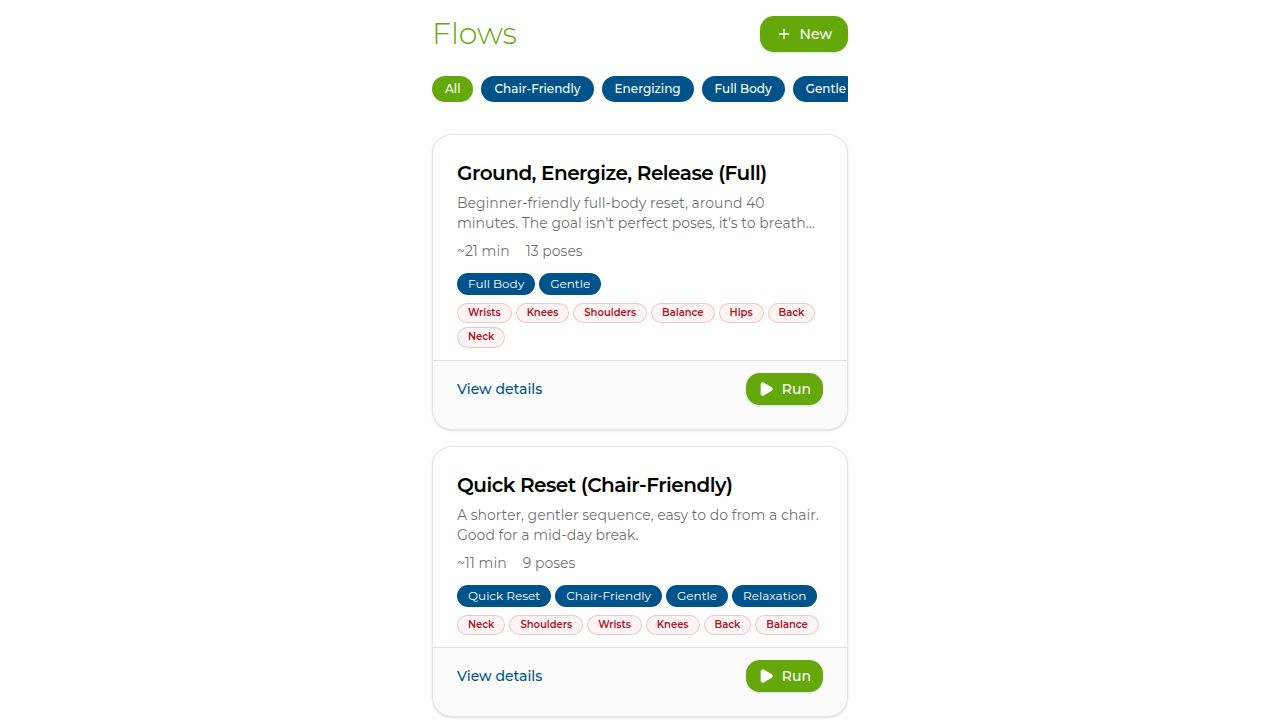
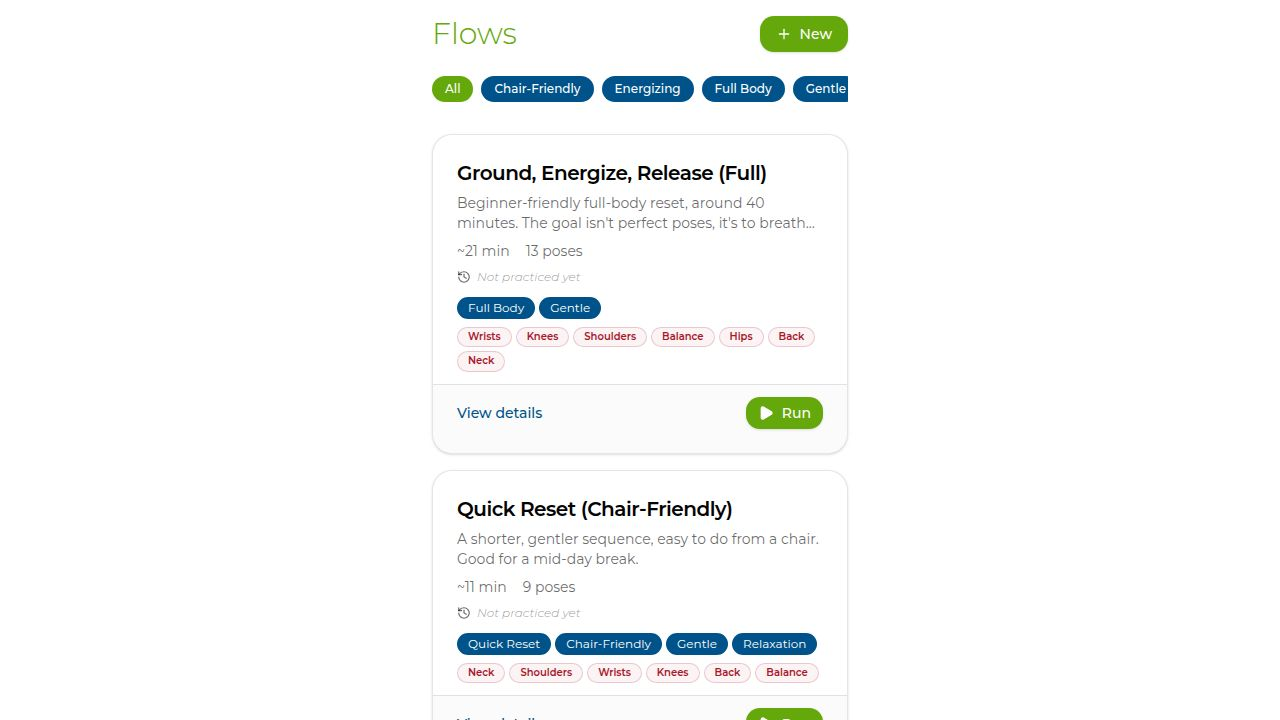
Allow users to edit existing poses and their details
Add functionality to update existing poses via a new API endpoint and corresponding UI elements in the builder.

Replit-Commit-Author: Agent
Replit-Commit-Session-Id: ed87b029-cb7b-4e24-b253-91e2f787ba12
Replit-Commit-Checkpoint-Type: full_checkpoint
Replit-Commit-Event-Id: f6902fa1-2135-40dc-87d6-ab75f8274b44
Replit-Commit-Screenshot-Url: https://storage.googleapis.com/screenshot-production-us-central1/4d9189ef-664a-4452-871d-b20f7011d44b/ed87b029-cb7b-4e24-b253-91e2f787ba12/3hUZU86
Replit-Helium-Checkpoint-Created: true

Changed region(s): [[0.3438, 0.6417, 0.6562, 1.0], [0.3438, 0.3667, 0.6562, 0.6111]]

diff --git a/artifacts/flow-planner/src/pages/builder.tsx b/artifacts/flow-planner/src/pages/builder.tsx
@@ -10,7 +10,8 @@ import {
   useCreateRoutine,
   useUpdateRoutine,
   useCreateTag,
-  useCreatePose
+  useCreatePose,
+  useUpdatePose
 } from "@workspace/api-client-react";
 import type { PoseInputCategory, PoseInputDurationType, PoseInputCautionsItem } from "@workspace/api-client-react";
 import { useQueryClient } from "@tanstack/react-query";
@@ -58,6 +59,7 @@ export default function Builder() {
   const updateRoutine = useUpdateRoutine();
   const createTag = useCreateTag();
   const createPose = useCreatePose();
+  const updatePose = useUpdatePose();
 
   const [title, setTitle] = useState("");
   const [description, setDescription] = useState("");
@@ -82,6 +84,7 @@ export default function Builder() {
   const [activeSection, setActiveSection] = useState<"centering"|"flow"|"closing" | null>(null);
   
   const [isPoseDialogOpen, setIsPoseDialogOpen] = useState(false);
+  const [editingPoseId, setEditingPoseId] = useState<number | null>(null);
   const [newPose, setNewPose] = useState({
     name: "",
     category: "Centering" as PoseInputCategory,
@@ -161,7 +164,45 @@ export default function Builder() {
     );
   };
 
-  const handleCreatePose = () => {
+  const resetPoseForm = () => {
+    setEditingPoseId(null);
+    setNewPose({
+      name: "",
+      category: "Centering" as PoseInputCategory,
+      durationType: "time" as PoseInputDurationType,
+      defaultDurationSeconds: 30,
+      defaultBreaths: 5,
+      perSide: false,
+      cue: "",
+      cautions: [],
+      modification: "",
+      chairOption: ""
+    });
+  };
+
+  const openCreatePose = () => {
+    resetPoseForm();
+    setIsPoseDialogOpen(true);
+  };
+
+  const openEditPose = (pose: any) => {
+    setEditingPoseId(pose.id);
+    setNewPose({
+      name: pose.name,
+      category: pose.category,
+      durationType: pose.durationType,
+      defaultDurationSeconds: pose.defaultDurationSeconds,
+      defaultBreaths: pose.defaultBreaths ?? 5,
+      perSide: pose.perSide,
+      cue: pose.cue ?? "",
+      cautions: [...pose.cautions],
+      modification: pose.modification ?? "",
+      chairOption: pose.chairOption ?? ""
+    });
+    setIsPoseDialogOpen(true);
+  };
+
+  const handleSavePose = () => {
     if (!newPose.name.trim()) return alert("Name is required");
     
     const payload = {
@@ -169,24 +210,17 @@ export default function Builder() {
       defaultBreaths: newPose.durationType === 'breaths' ? newPose.defaultBreaths : null
     };
 
-    createPose.mutate({ data: payload }, {
-      onSuccess: () => {
-        queryClient.invalidateQueries({ queryKey: getListPosesQueryKey() });
-        setIsPoseDialogOpen(false);
-        setNewPose({
-          name: "",
-          category: "Centering" as PoseInputCategory,
-          durationType: "time" as PoseInputDurationType,
-          defaultDurationSeconds: 30,
-          defaultBreaths: 5,
-          perSide: false,
-          cue: "",
-          cautions: [],
-          modification: "",
-          chairOption: ""
-        });
-      }
-    });
+    const onSuccess = () => {
+      queryClient.invalidateQueries({ queryKey: getListPosesQueryKey() });
+      setIsPoseDialogOpen(false);
+      resetPoseForm();
+    };
+
+    if (editingPoseId != null) {
+      updatePose.mutate({ id: editingPoseId, data: payload }, { onSuccess });
+    } else {
+      createPose.mutate({ data: payload }, { onSuccess });
+    }
   };
 
   const addPose = (pose: any) => {
@@ -297,7 +331,7 @@ export default function Builder() {
               <SheetHeader className="px-4 pb-2 text-left shrink-0">
                 <div className="flex items-center justify-between">
                   <SheetTitle>Pose Bank</SheetTitle>
-                  <Button variant="outline" size="sm" onClick={() => setIsPoseDialogOpen(true)}>
+                  <Button variant="outline" size="sm" onClick={openCreatePose}>
                     Create Pose
                   </Button>
                 </div>
@@ -359,9 +393,17 @@ export default function Builder() {
                       className="p-3 border rounded-lg hover:border-primary cursor-pointer transition-colors bg-card"
                       onClick={() => addPose(pose)}
                     >
-                      <div className="flex justify-between">
+                      <div className="flex justify-between items-start gap-2">
                         <div className="font-medium text-foreground">{pose.name}</div>
-                        <Badge variant="outline" className="text-[10px]">{pose.category}</Badge>
+                        <div className="flex items-center gap-2 shrink-0">
+                          <Badge variant="outline" className="text-[10px]">{pose.category}</Badge>
+                          <button
+                            onClick={(ev) => { ev.stopPropagation(); openEditPose(pose); }}
+                            className="text-[11px] font-medium text-secondary hover:underline"
+                          >
+                            Edit
+                          </button>
+                        </div>
                       </div>
                       <div className="text-xs text-muted-foreground mt-1 line-clamp-1">{pose.cue}</div>
                       {pose.modification && (
@@ -522,10 +564,13 @@ export default function Builder() {
       {renderSectionBuilder("flow", "Flow")}
       {renderSectionBuilder("closing", "Closing")}
 
-      <Dialog open={isPoseDialogOpen} onOpenChange={setIsPoseDialogOpen}>
+      <Dialog open={isPoseDialogOpen} onOpenChange={(open) => { setIsPoseDialogOpen(open); if (!open) resetPoseForm(); }}>
         <DialogContent className="max-h-[90vh] overflow-hidden flex flex-col p-0">
           <DialogHeader className="px-4 pt-4 shrink-0">
-            <DialogTitle>Add Custom Pose</DialogTitle>
+            <DialogTitle>{editingPoseId != null ? "Edit Pose" : "Add Custom Pose"}</DialogTitle>
+            {editingPoseId != null && (
+              <p className="text-xs text-muted-foreground">Changes apply everywhere this pose is used.</p>
+            )}
           </DialogHeader>
           <ScrollArea className="flex-1 px-4">
             <div className="space-y-4 py-4">
@@ -610,8 +655,8 @@ export default function Builder() {
                 </div>
               </div>
               <div className="pt-4 pb-2">
-                <Button className="w-full" onClick={handleCreatePose} disabled={createPose.isPending || !newPose.name.trim()}>
-                  Save Pose
+                <Button className="w-full" onClick={handleSavePose} disabled={createPose.isPending || updatePose.isPending || !newPose.name.trim()}>
+                  {editingPoseId != null ? "Save Changes" : "Save Pose"}
                 </Button>
               </div>
             </div>

diff --git a/artifacts/api-server/src/routes/poses.ts b/artifacts/api-server/src/routes/poses.ts
@@ -1,9 +1,12 @@
 import { Router, type IRouter } from "express";
+import { eq } from "drizzle-orm";
 import { db, posesTable } from "@workspace/db";
 import {
   ListPosesResponse,
   CreatePoseBody,
   CreatePoseResponse,
+  UpdatePoseBody,
+  UpdatePoseResponse,
 } from "@workspace/api-zod";
 
 const router: IRouter = Router();
@@ -31,6 +34,37 @@ router.post("/poses", async (req, res): Promise<void> => {
     .returning();
 
   res.status(201).json(CreatePoseResponse.parse(pose));
+});
+
+router.put("/poses/:id", async (req, res): Promise<void> => {
+  const id = Number(req.params.id);
+  if (!Number.isInteger(id)) {
+    res.status(400).json({ error: "Invalid pose id" });
+    return;
+  }
+
+  const parsed = UpdatePoseBody.safeParse(req.body);
+  if (!parsed.success) {
+    res.status(400).json({ error: parsed.error.message });
+    return;
+  }
+
+  const [pose] = await db
+    .update(posesTable)
+    .set({
+      ...parsed.data,
+      defaultBreaths: parsed.data.defaultBreaths ?? null,
+      cautions: [...parsed.data.cautions],
+    })
+    .where(eq(posesTable.id, id))
+    .returning();
+
+  if (!pose) {
+    res.status(404).json({ error: "Pose not found" });
+    return;
+  }
+
+  res.json(UpdatePoseResponse.parse(pose));
 });
 
 export default router;

diff --git a/.agents/memory/flow-planner-api.md b/.agents/memory/flow-planner-api.md
@@ -1,0 +1,18 @@
+---
+name: Flow Planner API + codegen flow
+description: How poses/routines API and the generated client work in the flow-planner monorepo
+---
+
+# Flow Planner API & client codegen
+
+- API contract lives in `lib/api-spec/openapi.yaml`. After editing paths/schemas, run
+  `pnpm --filter @workspace/api-spec run codegen` to regenerate the react-query hooks
+  (`@workspace/api-client-react`) and zod schemas (`@workspace/api-zod`). Codegen also runs `typecheck:libs`.
+- Express routes are per-resource under `artifacts/api-server/src/routes/`. Restart the
+  `artifacts/api-server: API Server` workflow after adding a route so the new endpoint loads.
+- Poses support GET, POST, and PUT `/poses/{id}` (update). `PUT` reuses the `PoseInput` schema
+  (full replace) and does NOT touch `isCustom`, so editing a built-in (library) pose keeps
+  `isCustom: false` and the edit applies globally wherever that pose is used. **Why:** user
+  wanted editable pose fields to reduce AI requests; global edits of built-ins are intended.
+- Builder pose dialog is shared for create+edit, keyed by `editingPoseId` state. The pose-bank
+  row's Edit button uses `stopPropagation` so it doesn't also add the pose to a section.

diff --git a/.agents/memory/MEMORY.md b/.agents/memory/MEMORY.md
@@ -1,1 +1,1 @@
-- [API codegen workflow](api-codegen.md) — adding an API endpoint requires editing openapi.yaml then running codegen; zod + react-query clients are generated, not hand-written.
+- [Flow Planner API + codegen](flow-planner-api.md) — openapi→codegen→restart flow; poses support PUT update; built-in pose edits are global by design.